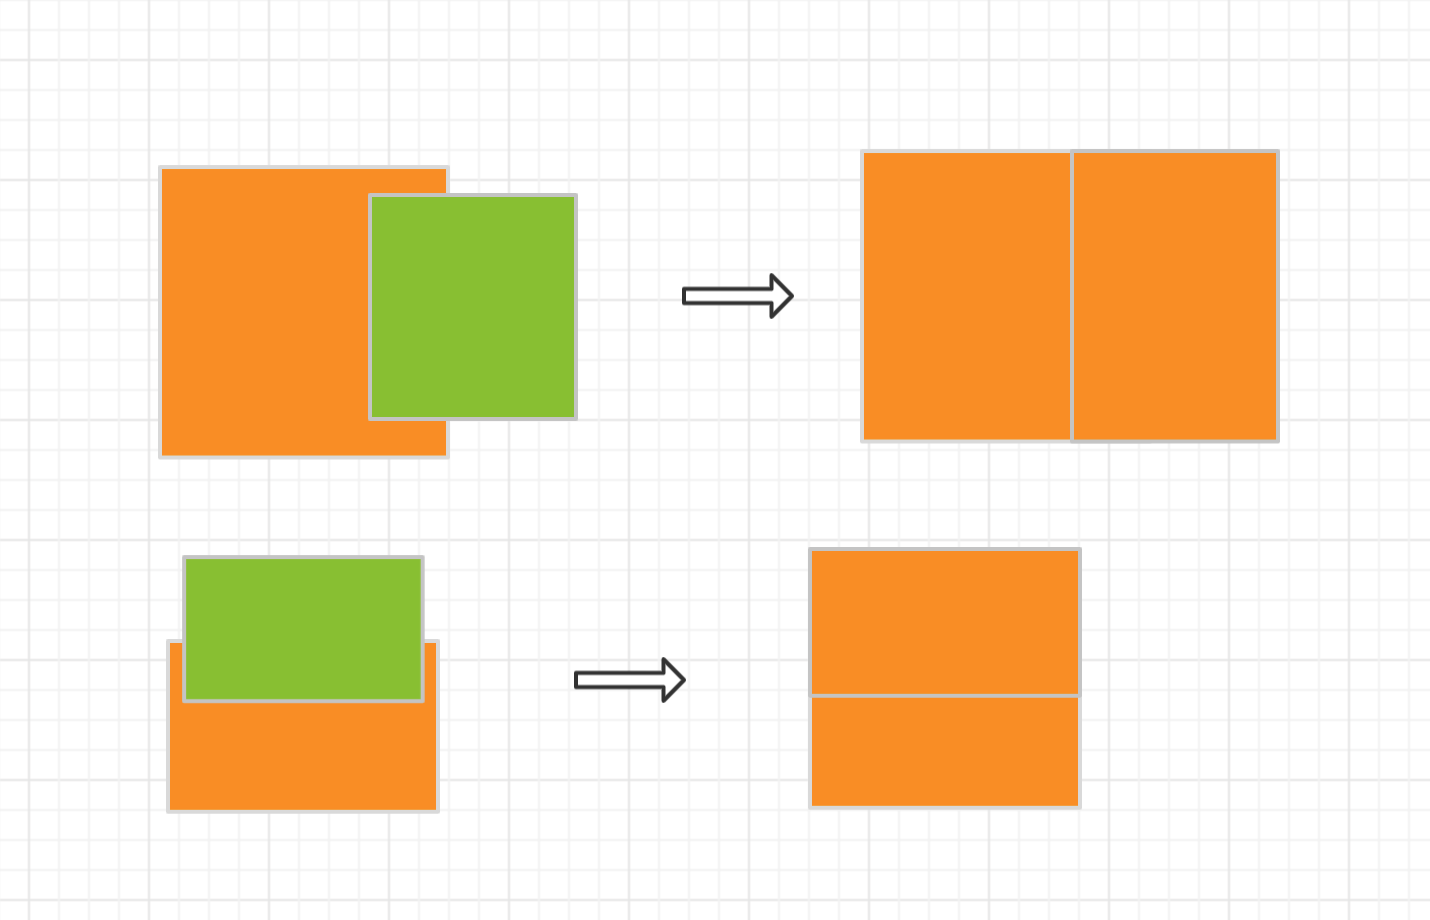
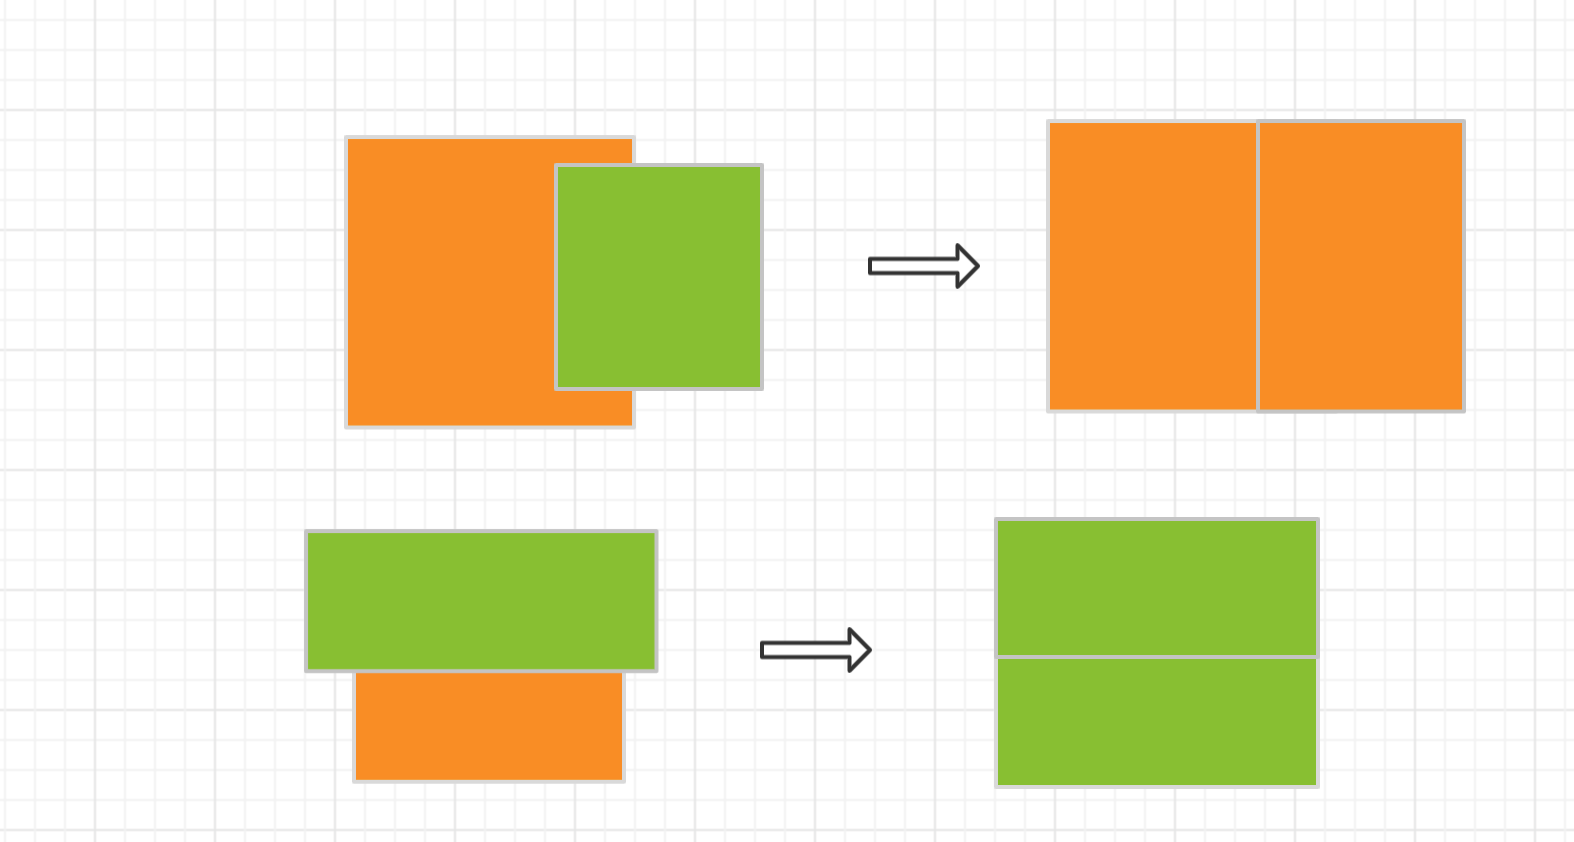
结构和样式的确认方法

diff --git a/coord2layout/README.md b/coord2layout/README.md
@@ -12,16 +12,26 @@
 
 ## 如何处理部分重叠的情况
 页面元素不仅仅有并列和包含的关系，肯定是有重叠的情况，但是重叠的情况单纯依靠flex布局无法实现，而且在组件布局中，重叠的概率相对较低，所以我们把重叠的定义留给拖拽部分。在转换环境为了降低对整体布局的影响，对重叠元素做如下处理：
--  如果重叠面积大于两者之一的70% 则将小的忽略，按一个元素处理，直接用大的代替整体
-    ![](./images/little_ignore.png)
-- 如果重叠，两者大于20%小于70%，
- - 两元素重叠部分宽/高相差不大10%，将两个元素进行合并按同一元素处理
-    ![](./images/combine.png)
- - 量元素重叠部分宽/高相差较大，做如下处理
-    ![](./images/overlay_combine.png)
-- 如果两者的大小差距小于20%,则按两个元素处理，重叠部分忽略
-    ![](./images/overlap_ignore.png)
+只考虑两个元素的重叠，两元素以上的重叠暂不考虑。
+在只考虑矩形的情况下，分为单角重叠、两角重叠和全部重叠（三角和四角)、无角重叠。
+- 单角重叠的情况下，这种情况下，根据前端经验，一般都是将较大元素作为主元素，小元素为角标，
+    - 可以区分大小，只保留大的元素
+    - 不可以区分大小
+        - 重叠面积大于50%， 按上一个元素
+        - 重叠面面积小于50%
+- 两角重叠的情况
 
+    -  如果重叠面积大于两者之一的70% 则将小的忽略，按一个元素处理，直接用大的代替整体
+        ![](./images/little_ignore.png)
+    - 如果重叠部分，两者大于20%小于70%，
+        - 两元素重叠部分宽/高相差不大10%，将两个元素进行合并按同一元素处理
+            ![](./images/combine.png)
+        - 两元素重叠部分宽/高相差较大，做如下处理
+            ![](./images/long.png)
+    - 如重叠部分两者之一的小于20%,则按两个元素处理，重叠部分忽略  
+        ![](./images/overlap_ignore.png)
+- 无角重叠的情况  
+  ![](./images/overlay_combine.png)
 ## 确认父子关系
 将一维数组从头到尾进行遍历，新加入的元素和之前已入队的元素作比对：
  - 做比对的顺序应该是从顶开始，直到找到其所在的位置
@@ -44,6 +54,16 @@
 
 
 ## 确定主轴方向
-确定主轴方向，至少需要两个元素，一次元素添加可以会涉及到多个主轴的确定。   
-   > eg: 孙元素的添加，确定了父元素的主轴。父元素确认后，父元素兄弟间的关系也会确认。
-    需要处理一些特殊情况。父元素可能在多次添加后有多个选项。
+确定主轴方向，
+- 至少需要两个元素
+- 一次元素添加可以会涉及到多个主轴的确定。   
+   > eg: 孙元素的添加，确定了父元素的主轴。父元素确认后，父元素兄弟间的关系也会确认（修改）。  
+- 位置关系分类
+    - 同一行（column_min 和 column_max吻合）则是行布局
+    - 同一列（比较row_min 和 row_max）则是列布局
+    - 
+需要处理一些特殊情况。父元素可能在多次添加后有多个选项。比如以下布局，可以考虑变为行布局，也可变为列布局
+ - - - - - ![](./images/column_layout.png)
+ - - - - - ![](./images/row_layout.png)
+
+这种情况就和元素的进入顺序有很大关联。
